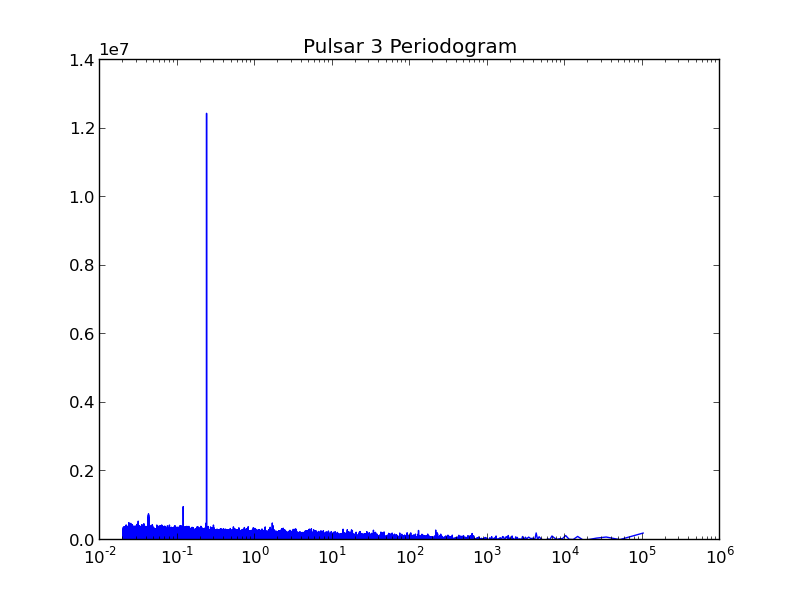
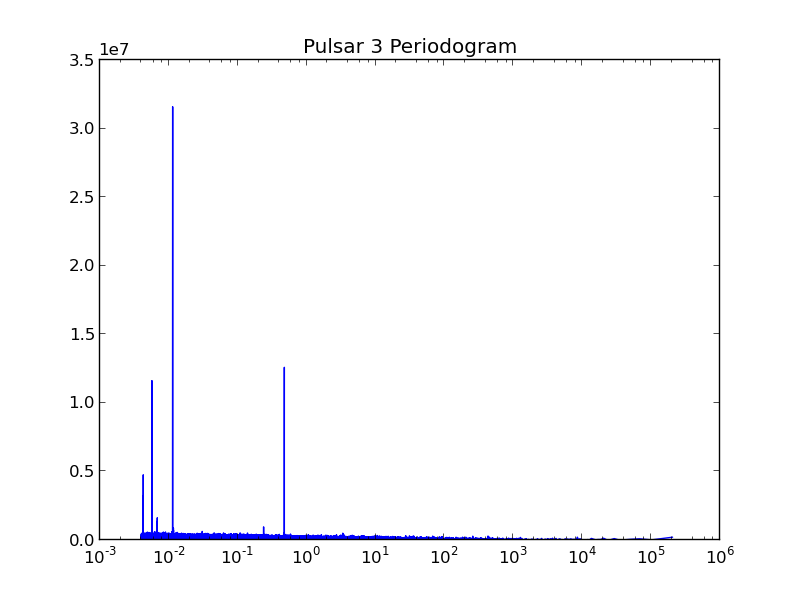
Ran with 1ms bins, got good results

diff --git a/pulsar_period.py b/pulsar_period.py
@@ -20,7 +20,7 @@ t_rel = t - min(t)
 
 # Making bins of 1/100 second
 obs_time = max(t_rel)
-Nbins = math.ceil(obs_time)*100
+Nbins = math.ceil(obs_time)*1000.
 
 # Bin the time data in 1/100 second bins
 t_hist = histogram(t_rel, bins = Nbins, range=(0, math.ceil(obs_time)))
@@ -35,15 +35,29 @@ F = fftfreq(n)
 period = 1./F
 
 # Find the period corresponding to the max of the power
-pulsar_period = period[argmax(power)]/100.
+pulsar_period = period[argmax(power)]/1000.
 print 'Pulsar period =', pulsar_period, '(s)'
 
 # Plot figure
 fig = plt.figure()
 ax = fig.add_subplot(111)
-pgram = ax.plot(period[1:len(power)+1]/100.,power)
+pgram = ax.plot(period[1:len(power)+1]/500.,power)
 ax.set_xscale('log')
 #ax.set_xlim([1.0E-2, 1.0E0])
 ax.set_title('Pulsar 3 Periodogram')
 show()
 fig.savefig('pgram')
+
+#phase = []
+
+# Bin the photons by period
+#for j in range(len(t_rel)):
+#  phase.append(modf(t_rel[j]/pulsar_period)[0])
+
+# Plot histogram of the phase
+#fig = plt.figure()
+#ax = fig.add_subplot(111)
+#phasehist = ax.hist(phase, bins = 100)
+#ax.set_title('Pulsar 3 Phase Plot')
+#show()
+#fig.savefig('phaseplot')
